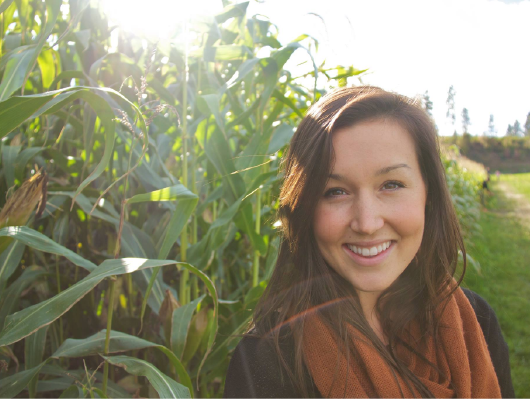
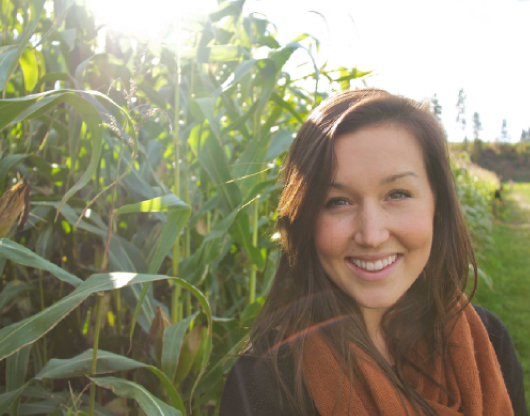
1. fixed who are we page weird padding

diff --git a/ThoughtsOn_WhoAreWe.html b/ThoughtsOn_WhoAreWe.html
@@ -71,14 +71,13 @@
                   <h2>Angela Wong</h2><br>
                     <p><strong>Co-founder</strong></p>
                     <p>My name is Angela and I’m one of the co-founders of Thoughts On!  Niks and I started playing around with glass etching the summer of 2014 when we came upon this Martha Stewart post on Pinterest and thought why not?! It summer, too hot to stay out and we were bored. Little did we know, that slice of curiosity has gotten us to where we are today. I’m a Business student at SFU with a minor in Publications. Growing up, I’ve always loved arts and crafts and scrapbooking has been a long time hobby of mine. With a Pub background and having taken a couple of design courses in school, I’ve began taking an interest in typography and this has definitely influenced the way I stencil my work. In my free time, when I’m not etching glass, painting canvases or going to school, I love to go play Bingo (yes, with cute old people at a bingo center; trust me, it is a lot more exciting than it sounds), cook and catching up on Grey’s Anatomy!
-
-                    </p><br>
+                    </p>
                 </div>
-            </div>
+              </div>
 
-            <!--Nicole-->
 
-            <div class="bio-content">
+
+               <div class="bio-content">
                 <div class="bio-content-image">
                   <img src="images/who_are_we/whoarewe_niks.png" height="416" width="530" alt="niks ilagan profile pic">
                 </div>
@@ -86,11 +85,13 @@
                 <div class="bio-content-text">
                   <h2>Niks Ilagan</h2><br>
                     <p><strong>Co-founder</strong></p>
-                    <p>My name is Niks and the other face of Thoughts On. I grew up in beautiful British Columbia and love anything that is fine arts related. Although I have no education or experience in design, I am super excited to be working with Angela in delivering products that allow people express their thoughts. I have a degree in Market Research from BCIT and currently work a full time job at a tourism research lab. When I’m not at work, I love spending my time learning about design and typography. Thoughts On has given me the opportunity to venture out of my comfort zone and I can’t wait to do more of that all the fairs that are happening in the coming few months. Some of my favorites in life are: my dog Happy (English cocker spaniel), green tea Frappuccino (soy with no whip), and travelling (I’ve been to most places in Eastern Europe and the major countries in Asia) !
-
-                    </p><br>
+                    <p>My name is Niks and the other face of Thoughts On. I grew up in Alberta but moved to beautiful British Columbia when I was 10. I love anything that is fine arts related and although I have no education or experience in design, I am super excited to be working with Angela in delivering products that allow people express their thoughts. I have a degree in Market Research from BCIT and currently work a full time job at a tourism research lab. When I’m not at work, I love spending my time learning about design and typography. Thoughts On has given me the opportunity to venture out of my comfort zone and I can’t wait to do more of that all the fairs that are happening in the coming few months. Some of my favorites in life are: my dog Happy (English cocker spaniel), green tea Frappuccino (soy with no whip), and travelling (I’ve been to most places in Eastern Europe and the major countries in Asia)!
+                    </p>
                 </div>
-            </div>
+              </div>
+            <!--Nicole-->
+
+            
         </div>
       </div>
 

diff --git a/css/ThoughtsOn_grid.css b/css/ThoughtsOn_grid.css
@@ -120,6 +120,10 @@
 		padding: 0 1em 4em 1em!important; /* decreases padding of white space*/
 	}
 
+	.bio-content{
+		padding-bottom: 0em !important; /* decreases padding of white space of bio page*/
+	}
+
 	.home-text-group h1, .home-text-group-2 h1, .home-text-group-3 h1{
 		margin-top: 3em !important;
 	}

diff --git a/css/ThoughtsOn_style.css b/css/ThoughtsOn_style.css
@@ -138,7 +138,10 @@ a.round-button-left:hover, a.round-button-right:hover{
   max-width: 100%;
   height:auto;
   display: inline-block;
-  padding:2em;
+}
+
+.bio-content img{
+ padding-bottom:2em;
 }
 
 
